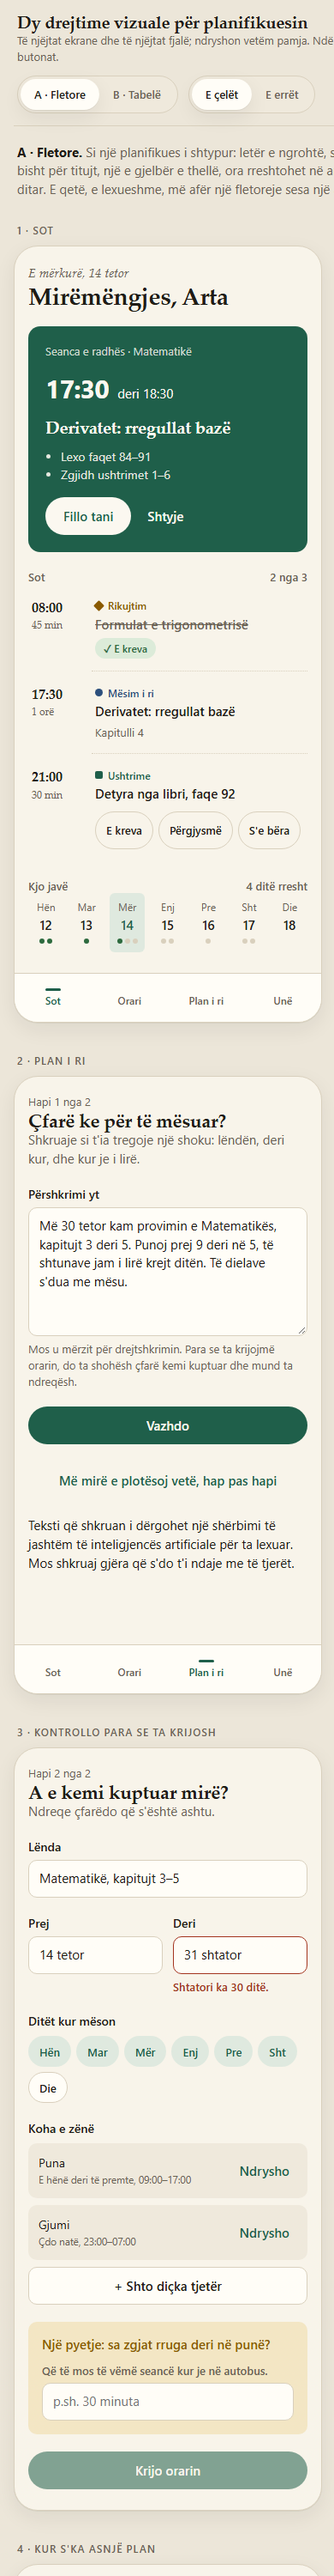
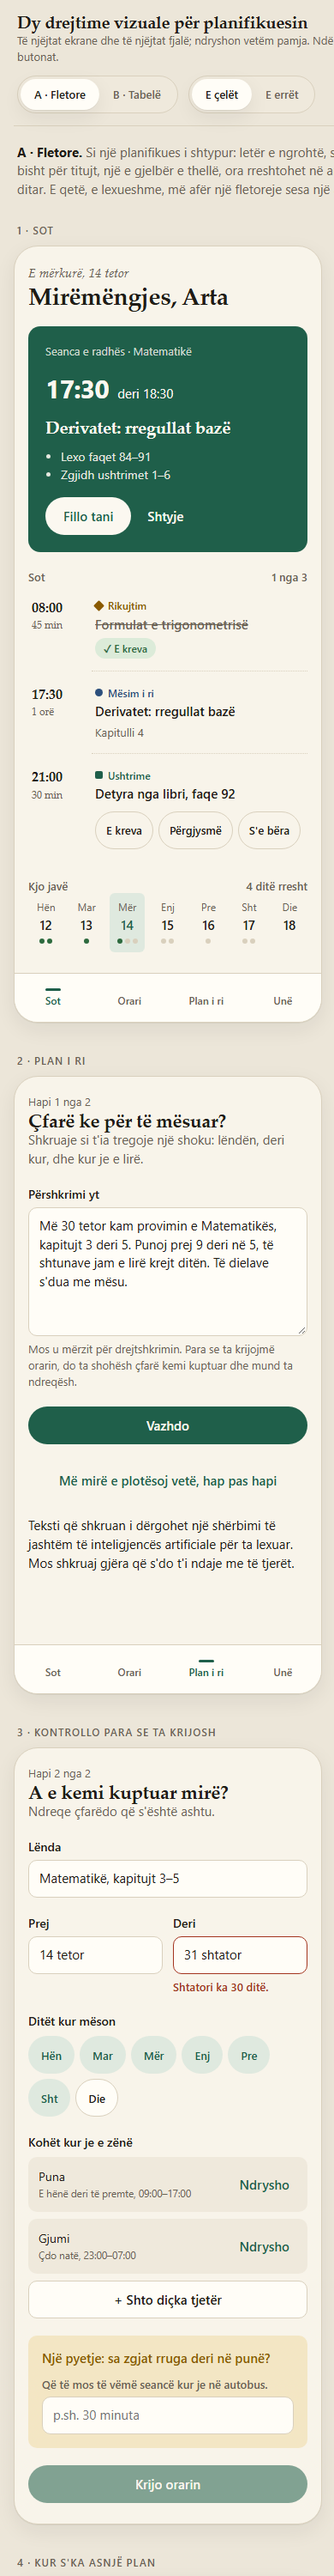
Design directions: Codex's corrections and wide-screen versions of every screen
Completion count, gender agreement for the scenario's student, imperative
steps, day chips as 44 px buttons, approved wording for removed sessions.
Five wide frames are composed in the page from the phone screens' own
content, so both sizes always show the same words.

Changed region(s): [[0.0615, 0.775, 0.9231, 1.0]]

diff --git a/docs/design/index.html b/docs/design/index.html
@@ -35,7 +35,7 @@
     <!-- 1. SOT -->
     <section class="shot">
         <h2>1 · Sot</h2>
-        <div class="phone">
+        <div class="phone" id="s-today">
             <div class="body">
                 <div>
                     <p class="eyebrow date">E mërkurë, 14 tetor</p>
@@ -57,7 +57,7 @@
                 </div>
 
                 <div>
-                    <p class="section-label">Sot <span>2 nga 3</span></p>
+                    <p class="section-label">Sot <span>1 nga 3</span></p>
                     <div class="day">
                         <div class="slot done">
                             <span class="time">08:00<small>45 min</small></span>
@@ -112,17 +112,17 @@
     <!-- 2. PLAN I RI: PËRSHKRIMI -->
     <section class="shot">
         <h2>2 · Plan i ri</h2>
-        <div class="phone">
+        <div class="phone" id="s-new">
             <div class="body">
                 <div>
                     <p class="eyebrow">Hapi 1 nga 2</p>
                     <h3 class="title small">Çfarë ke për të mësuar?</h3>
-                    <p class="lede">Shkruaje si t'ia tregoje një shoku: lëndën, deri kur, dhe kur je i lirë.</p>
+                    <p class="lede">Shkruaje si t'ia tregoje një shoku: lëndën, deri kur, dhe kur je e lirë.</p>
                 </div>
 
                 <div class="field">
                     <label for="pershkrimi">Përshkrimi yt</label>
-                    <textarea id="pershkrimi">Më 30 tetor kam provimin e Matematikës, kapitujt 3 deri 5. Punoj prej 9 deri në 5, të shtunave jam i lirë krejt ditën. Të dielave s'dua me mësu.</textarea>
+                    <textarea id="pershkrimi">Më 30 tetor kam provimin e Matematikës, kapitujt 3 deri 5. Punoj prej 9 deri në 5, të shtunave jam e lirë krejt ditën. Të dielave s'dua me mësu.</textarea>
                     <p class="hint">Mos u mërzit për drejtshkrimin. Para se ta krijojmë orarin, do ta shohësh çfarë kemi kuptuar dhe mund ta ndreqësh.</p>
                 </div>
 
@@ -140,7 +140,7 @@
     <!-- 3. PLAN I RI: ÇFARË KUPTUAM -->
     <section class="shot">
         <h2>3 · Kontrollo para se ta krijosh</h2>
-        <div class="phone">
+        <div class="phone" id="s-check">
             <div class="body">
                 <div>
                     <p class="eyebrow">Hapi 2 nga 2</p>
@@ -168,12 +168,12 @@
                 <div>
                     <p class="legend">Ditët kur mëson</p>
                     <div class="chips" style="margin-top:8px">
-                        <span class="chip" aria-pressed="true">Hën</span><span class="chip" aria-pressed="true">Mar</span><span class="chip" aria-pressed="true">Mër</span><span class="chip" aria-pressed="true">Enj</span><span class="chip" aria-pressed="true">Pre</span><span class="chip" aria-pressed="true">Sht</span><span class="chip" aria-pressed="false">Die</span>
+                        <button class="chip" type="button" aria-pressed="true">Hën</button><button class="chip" type="button" aria-pressed="true">Mar</button><button class="chip" type="button" aria-pressed="true">Mër</button><button class="chip" type="button" aria-pressed="true">Enj</button><button class="chip" type="button" aria-pressed="true">Pre</button><button class="chip" type="button" aria-pressed="true">Sht</button><button class="chip" type="button" aria-pressed="false">Die</button>
                     </div>
                 </div>
 
                 <div>
-                    <p class="legend">Koha e zënë</p>
+                    <p class="legend">Kohët kur je e zënë</p>
                     <div class="understood" style="margin-top:8px">
                         <div class="item"><span>Puna<small>E hënë deri të premte, 09:00–17:00</small></span><button class="btn quiet" type="button">Ndrysho</button></div>
                         <div class="item"><span>Gjumi<small>Çdo natë, 23:00–07:00</small></span><button class="btn quiet" type="button">Ndrysho</button></div>
@@ -197,15 +197,15 @@
     <!-- 4. GJENDJE BOSH -->
     <section class="shot">
         <h2>4 · Kur s'ka asnjë plan</h2>
-        <div class="phone">
+        <div class="phone" id="s-empty">
             <div class="body">
                 <div class="empty">
                     <h3 class="title">Ende s'ke orar</h3>
                     <p class="lede">Krijoje të parin për dy minuta.</p>
                     <ol class="steps">
-                        <li>Tregon çfarë ke për të mësuar dhe deri kur.</li>
-                        <li>Tregon kur punon, kur ke shkollë, kur fle.</li>
-                        <li>Merr një orar që futet në kohën tënde të lirë.</li>
+                        <li>Trego çfarë ke për të mësuar dhe deri kur.</li>
+                        <li>Trego kur punon, kur ke shkollë, kur fle.</li>
+                        <li>Merr një orar që futet në kohën që ke të lirë.</li>
                     </ol>
                     <button class="btn primary full" type="button">Krijo planin e parë</button>
                     <button class="btn quiet full" type="button">Kam një kopje rezervë, ktheje</button>
@@ -220,7 +220,7 @@
     <!-- 5. PRITJE DHE GABIM -->
     <section class="shot">
         <h2>5 · Kur diçka zgjat ose s'shkon</h2>
-        <div class="phone">
+        <div class="phone" id="s-states">
             <div class="body">
                 <div>
                     <p class="eyebrow">Duke punuar</p>
@@ -229,7 +229,7 @@
                 <div class="notice warn">
                     <strong>Po i vendosim seancat në kohën tënde të lirë…</strong>
                     <div class="progress" role="progressbar" aria-label="Ecuria" aria-valuenow="62" aria-valuemin="0" aria-valuemax="100"><i></i></div>
-                    <p>Zakonisht zgjat nën një minutë.</p>
+                    <p>Zakonisht merr më pak se një minutë.</p>
                     <button class="btn" type="button">Ndale</button>
                 </div>
 
@@ -246,8 +246,8 @@
                 </div>
 
                 <div class="notice warn">
-                    <strong>2 seanca u hoqën</strong>
-                    <p>Binin në orët kur punon. Pjesa tjetër e orarit është në rregull.</p>
+                    <strong>2 seanca të propozuara nga AI u hoqën, sepse nuk përshtateshin me kohën që ke të lirë.</strong>
+                    <p>Pjesa tjetër e orarit është në rregull.</p>
                     <button class="btn quiet" type="button">Shih cilat</button>
                 </div>
 
@@ -262,7 +262,7 @@
     <!-- 6. NJË SEANCË -->
     <section class="shot">
         <h2>6 · Një seancë e hapur</h2>
-        <div class="phone">
+        <div class="phone" id="s-session">
             <div class="body">
                 <div>
                     <button class="btn quiet" type="button">← Orari</button>
@@ -289,7 +289,7 @@
 
                 <div class="notice warn">
                     <strong>Pse sot dhe pse kaq herët?</strong>
-                    <p>Ke thënë që pas punës je më i freskët se në mbrëmje, prandaj mësimi i ri vjen para ushtrimeve.</p>
+                    <p>Ke thënë që pas punës je më e freskët se në mbrëmje, prandaj mësimi i ri vjen para ushtrimeve.</p>
                 </div>
 
                 <div>
@@ -367,6 +367,33 @@
         </div>
     </section>
 
+    <!-- 8–12. THE SAME SCREENS ON A COMPUTER. Filled by the script below from the phone screens above,
+         so that both sizes always show the same words. -->
+    <section class="shot wide">
+        <h2>8 · Sot, në kompjuter</h2>
+        <div class="desk" data-active="Sot" data-compose='[[["s-today",[0,1]]],[["s-today",[2]]],[["s-today",[3]]]]'></div>
+    </section>
+
+    <section class="shot wide">
+        <h2>9 · Plan i ri dhe kontrolli, në kompjuter</h2>
+        <div class="desk" data-active="Plan i ri" data-compose='[[["s-new",[0,1,4]]],[["s-check",[0,1,2,3]]],[["s-check",[4,5,6]]]]'></div>
+    </section>
+
+    <section class="shot wide">
+        <h2>10 · Një seancë e hapur, në kompjuter</h2>
+        <div class="desk" data-active="Orari" data-compose='[[["s-session",[0,1,2]]],[["s-session",[3,4]]],[["s-session",[5,6]]]]'></div>
+    </section>
+
+    <section class="shot wide">
+        <h2>11 · Kur s'ka asnjë plan, në kompjuter</h2>
+        <div class="desk" data-active="Sot" data-compose='[[["s-empty",[0]]]]' data-narrow></div>
+    </section>
+
+    <section class="shot wide">
+        <h2>12 · Kur diçka zgjat ose s'shkon, në kompjuter</h2>
+        <div class="desk" data-active="Plan i ri" data-compose='[[["s-states",[0,1]]],[["s-states",[2,3]]],[["s-states",[4,5]]]]'></div>
+    </section>
+
 </main>
 
 <script>
@@ -384,6 +411,34 @@
             if (saved) apply(name, saved);
         } catch { /* private window: start from the defaults */ }
     }
+    // Build the wide frames out of copies of the phone screens' own content.
+    const TABS = ["Sot", "Orari", "Plan i ri", "Unë"];
+    document.querySelectorAll("[data-compose]").forEach((desk, frameIndex) => {
+        const head = document.createElement("div");
+        head.className = "head";
+        head.innerHTML = `<p class="eyebrow date">E mërkurë, 14 tetor</p><div class="tabs">${TABS.map((t) => (t === desk.dataset.active ? `<b>${t}</b>` : `<span>${t}</span>`)).join("")}</div>`;
+        const cols = document.createElement("div");
+        cols.className = "cols";
+        const plan = JSON.parse(desk.dataset.compose);
+        cols.style.setProperty("--n", plan.length);
+        for (const column of plan) {
+            const col = document.createElement("div");
+            for (const [sourceId, indexes] of column) {
+                const parts = document.querySelector(`#${sourceId} .body`).children;
+                for (const i of indexes) {
+                    const copy = parts[i].cloneNode(true);
+                    // Copies must not repeat ids, or labels would point at the phone screen's fields.
+                    copy.querySelectorAll("[id]").forEach((el) => { el.id += "-w" + frameIndex; });
+                    copy.querySelectorAll("[for]").forEach((el) => { el.htmlFor += "-w" + frameIndex; });
+                    copy.querySelectorAll("[aria-describedby]").forEach((el) => { el.setAttribute("aria-describedby", el.getAttribute("aria-describedby") + "-w" + frameIndex); });
+                    col.appendChild(copy);
+                }
+            }
+            cols.appendChild(col);
+        }
+        desk.append(head, cols);
+    });
+
     document.querySelectorAll("[data-set]").forEach((button) => {
         button.addEventListener("click", () => {
             apply(button.dataset.set, button.dataset.value);

diff --git a/docs/design/directions.css b/docs/design/directions.css
@@ -195,7 +195,7 @@ button:focus-visible, input:focus-visible, textarea:focus-visible, a:focus-visib
 .field .error { color: var(--bad); font-size: 13px; font-weight: 600; }
 .pair { display: grid; grid-template-columns: 1fr 1fr; gap: 12px; }
 .chips { display: flex; flex-wrap: wrap; gap: 6px; }
-.chip { min-height: 36px; padding: 0 12px; display: inline-flex; align-items: center; border-radius: var(--radius-pill); border: 1px solid var(--line); background: var(--raised); font: 600 13px var(--font-text); color: var(--text); }
+.chip { min-height: var(--tap); min-width: var(--tap); padding: 0 14px; justify-content: center; cursor: pointer; display: inline-flex; align-items: center; border-radius: var(--radius-pill); border: 1px solid var(--line); background: var(--raised); font: 600 13px var(--font-text); color: var(--text); }
 .chip[aria-pressed="true"] { background: var(--accent-wash); color: var(--accent); border-color: transparent; }
 .understood { display: flex; flex-direction: column; gap: 8px; }
 .understood .item { display: flex; justify-content: space-between; gap: 12px; align-items: center; padding: 10px 12px; border-radius: var(--radius-m); background: var(--sunk); }
@@ -223,6 +223,11 @@ button:focus-visible, input:focus-visible, textarea:focus-visible, a:focus-visib
 .desk .head { display: flex; flex-wrap: wrap; gap: 12px; justify-content: space-between; align-items: center; padding: 18px 22px; border-bottom: 1px solid var(--line); }
 .desk .tabs { display: flex; gap: 22px; font: 600 14px var(--font-text); color: var(--muted); }
 .desk .tabs b { color: var(--accent); }
+.cols { display: grid; grid-template-columns: repeat(var(--n, 3), minmax(0, 1fr)); gap: 32px; padding: 28px 28px 32px; align-items: start; }
+.cols > div { display: flex; flex-direction: column; gap: var(--space-5); min-width: 0; }
+.desk[data-narrow] .cols { grid-template-columns: minmax(0, 520px); justify-content: center; }
+.desk[data-narrow] .empty { padding: var(--space-8) 0; }
+@media (max-width: 900px) { .cols { grid-template-columns: 1fr; } }
 .grid { display: grid; grid-template-columns: repeat(7, minmax(120px, 1fr)); gap: 10px; padding: 18px 22px 24px; overflow-x: auto; }
 .col { display: flex; flex-direction: column; gap: 8px; min-width: 0; }
 .col > header { font: 600 13px var(--font-text); color: var(--muted); padding-bottom: 6px; }

diff --git a/docs/agent-handoff/codex/05-design-review.md b/docs/agent-handoff/codex/05-design-review.md
@@ -1,0 +1,56 @@
+## Verdict
+
+Both directions follow the main design-system requirements in section 8: they define reusable color and type tokens, spacing and sizing rules, responsive behavior, consistent components, visible focus styling, reduced-motion handling, and examples of empty, error, loading, and success states. The two looks are distinct without relying on a repeated gradient or decorative effects.
+
+I reviewed the screenshots. I also calculated contrast from the CSS token values using the WCAG contrast formula. The tested text pairs pass AA: the lowest was **4.78:1** for A’s light warning text, and the other tested muted, accent, success, and error pairs were higher. The sample does not prove every rendered combination passes, but I found no token-level contrast failure.
+
+### A — Fletore
+
+The ruled time margin, serif headings, warm surfaces, and focused next-session panel make this feel like a coherent printed planner. It avoids the generic-card look and matches the stated preference for clean, aligned layouts.
+
+One concrete content-state defect: the day summary says **“2 nga 3”**, while only one of the three listed sessions is marked completed. Make the count and session states agree.
+
+### B — Tabelë
+
+The large monospaced next-session time and colored week blocks give it a clear departures-board character. It is legible and coherent, though the repeated white session cards and rounded controls make it feel more like a standard dashboard than A. That is a direction choice, not a reason to reject it.
+
+The day chips are **36 px high**, below the stated 44 px minimum. They also appear as `<span>` elements with `aria-pressed`, so they look interactive but are not keyboard-operable controls. Make them 44 px and use button semantics in the mock-up.
+
+## Changes needed before the owner sees them
+
+**Do not send these versions as-is.** The previous verdict asked for comparable phone and desktop views; currently, the week is the only wide-screen view. Before sending, add desktop counterparts for the core flows—today, plan creation, review, and session detail—using the same scenario in both directions. The empty and error states should also have a desktop treatment if they are presented as part of the comparison. The owner should be able to compare each direction at matching sizes.
+
+Also make these exact corrections:
+
+1. Fix the **“2 nga 3”** summary or the completion states so they agree.
+2. Because the student is Arta, change **“jam i lirë”** to **“jam e lirë”**, and **“je më i freskët”** to **“je më e freskët”**. Use **“kur je e lirë”** where the copy addresses her directly.
+3. Change the empty-state step **“Tregon çfarë…”** to the imperative **“Trego çfarë…”**.
+4. Bring the day chips to at least **44 px** and make their mock-up semantics match their interactive appearance.
+
+After those changes, they can go to the owner without another review round. I have no further required design revisions.
+
+## Albanian copy
+
+The copy is generally clear and Kosovo-appropriate. Besides the gender agreement and imperative above, I recommend two small phrasing edits:
+
+- **“Koha e zënë”** → **“Kohët kur je e zënë”**.
+- **“Zakonisht zgjat nën një minutë.”** → **“Zakonisht merr më pak se një minutë.”**
+
+The removed-session notice says only that two sessions were removed and conflicted with work. If this is intended to reflect the accepted copy recommendation for AI-proposed sessions, use the matching approved wording: **“2 seanca të propozuara nga AI u hoqën, sepse nuk përshtateshin me kohën që ke të lirë.”**
+
+## Ask the owner alongside the choice
+
+Ask them to choose:
+
+- Direction: **A — Fletore** or **B — Tabelë**
+- Default theme: **light** or **dark**
+- Product name: **Orari** or **StudyFlow**
+- Accounts: **local profile without a password, with export/import**, or **real accounts**
+
+## STATE UPDATE
+
+The workspace is read-only, so I have not edited the records. Suggested update:
+
+> **Design review, 2026-10-14:** Both static directions meet the design-system structure and have no token-level AA contrast failures in the tested pairs. Before owner review, add comparable desktop views for the core flows, correct the today completion count, fix Albanian gender agreement and imperative copy, and make day chips at least 44 px with appropriate button semantics. No broad UI implementation before the owner selects a direction.
+
+The reported evidence condition, copy corrections, and test results remain Claude’s results; I did not rerun the browser journey or test suite.

diff --git a/docs/agent-handoff/PROJECT_STATE.md b/docs/agent-handoff/PROJECT_STATE.md
@@ -18,7 +18,7 @@ Node 24.20, Express 5.2.1 (app built by `createApp` in `lib/app.js`), zod 3.25.7
 Local repository, branch `main`, no remote. Baseline of the untouched project: `b68ef0e`.
 
 ## Gate
-Batches 0, 1 and 2 accepted by Codex; all conditions met. Batch 3 (client foundation: `client/` with Vite, React, Tailwind, strict TypeScript, Vitest; typed API client; versioned IndexedDB storage with migration from the old data, no password; router; build served at `/app`, old page stays at `/`) is authorized and not started. Two static design directions (`docs/design/`) are with Codex for review; after that the owner chooses one, and no broad UI is built before that choice.
+Batches 0, 1 and 2 accepted by Codex; all conditions met. Batch 3 (client foundation: `client/` with Vite, React, Tailwind, strict TypeScript, Vitest; typed API client; versioned IndexedDB storage with migration from the old data, no password; router; build served at `/app`, old page stays at `/`) is authorized and not started. Two static design directions (`docs/design/index.html`, twelve screens each: six on the phone, six on a wide screen, light and dark) were reviewed by Codex, corrected as it required, and are with the owner for a choice. No broad UI is built before that choice.
 
 ## Approved direction (Codex, 2026-10-14)
 - `client/` with Vite, React, Tailwind, strict TypeScript, types inferred from the Zod schemas; Express, API contracts and business rules stay; new client built beside the old one after the safety net, one cutover after parity and storage migration.
@@ -41,6 +41,7 @@ P0-2 plaintext passwords and fake login (goes with the local-profile redesign); 
 - Standing: zero cost; no push or deploy without the owner; natural Kosovo Albanian; engineering standard, not "it runs".
 
 ## Open with the owner
+- Design direction: A (Fletore) or B (Tabelë); default theme light or dark.
 - D1 accounts: local profile without password, or real accounts.
 - D2 product name: Orari or StudyFlow.
 - D3 a free OpenRouter key in `.env`, entered by the owner. Until then no AI behaviour can be tested live.

diff --git a/docs/agent-handoff/CODEX_DECISIONS.md b/docs/agent-handoff/CODEX_DECISIONS.md
@@ -42,3 +42,10 @@ Roles (Codex's words): "I'm Codex, the independent technical reviewer and decisi
 - Albanian copy corrections given ("seancë" rather than "sesion", and others). (Applied verbatim.)
 - Batch 3: use Vitest; serve the new client at /app with legacy root retained; migrate profiles/plans to versioned IndexedDB without passwords; retain old keys through coexistence and remove them at verified cutover. Extend the legacy journey to plan creation. Report resource footprint (dependencies, bundle, disk, peak build memory).
 - Codex reviews both static design directions before owner review.
+
+## 2026-10-14 — `codex/05-design-review.md`
+
+- Both static directions meet the design-system structure and have no token-level AA contrast failures in the tested pairs (lowest 4.78:1).
+- Required before owner review: comparable desktop views for the core flows; correct the today completion count; fix Albanian gender agreement and imperative copy; day chips at least 44 px with button semantics; two phrasing edits; the removed-session notice in the approved wording. (All applied; Codex asked for no further review round.)
+- Ask the owner alongside the choice: direction A or B; default theme light or dark; product name Orari or StudyFlow; local profile without password (with export/import) or real accounts.
+- No broad UI implementation before the owner selects a direction.
